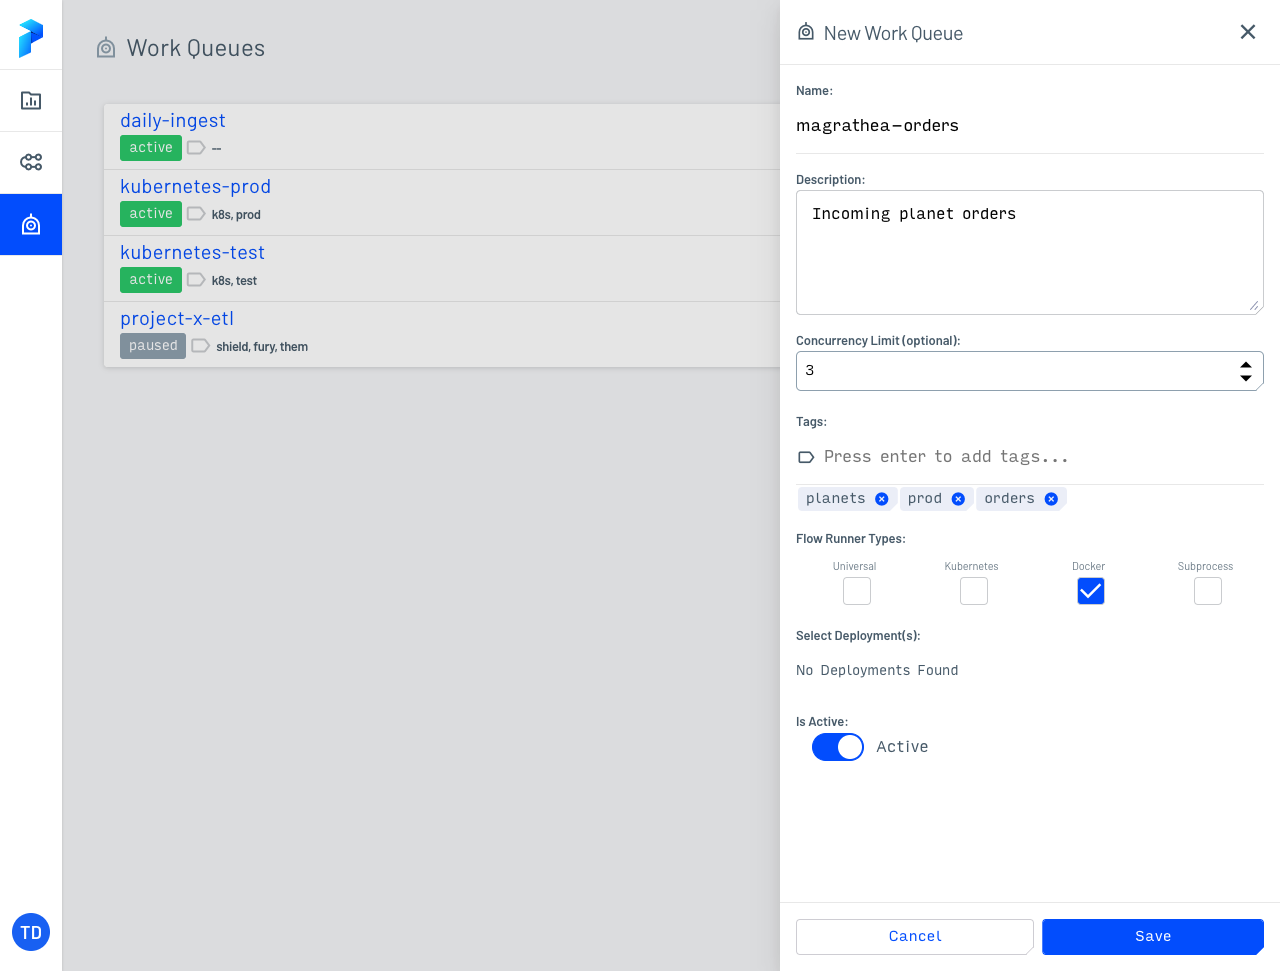
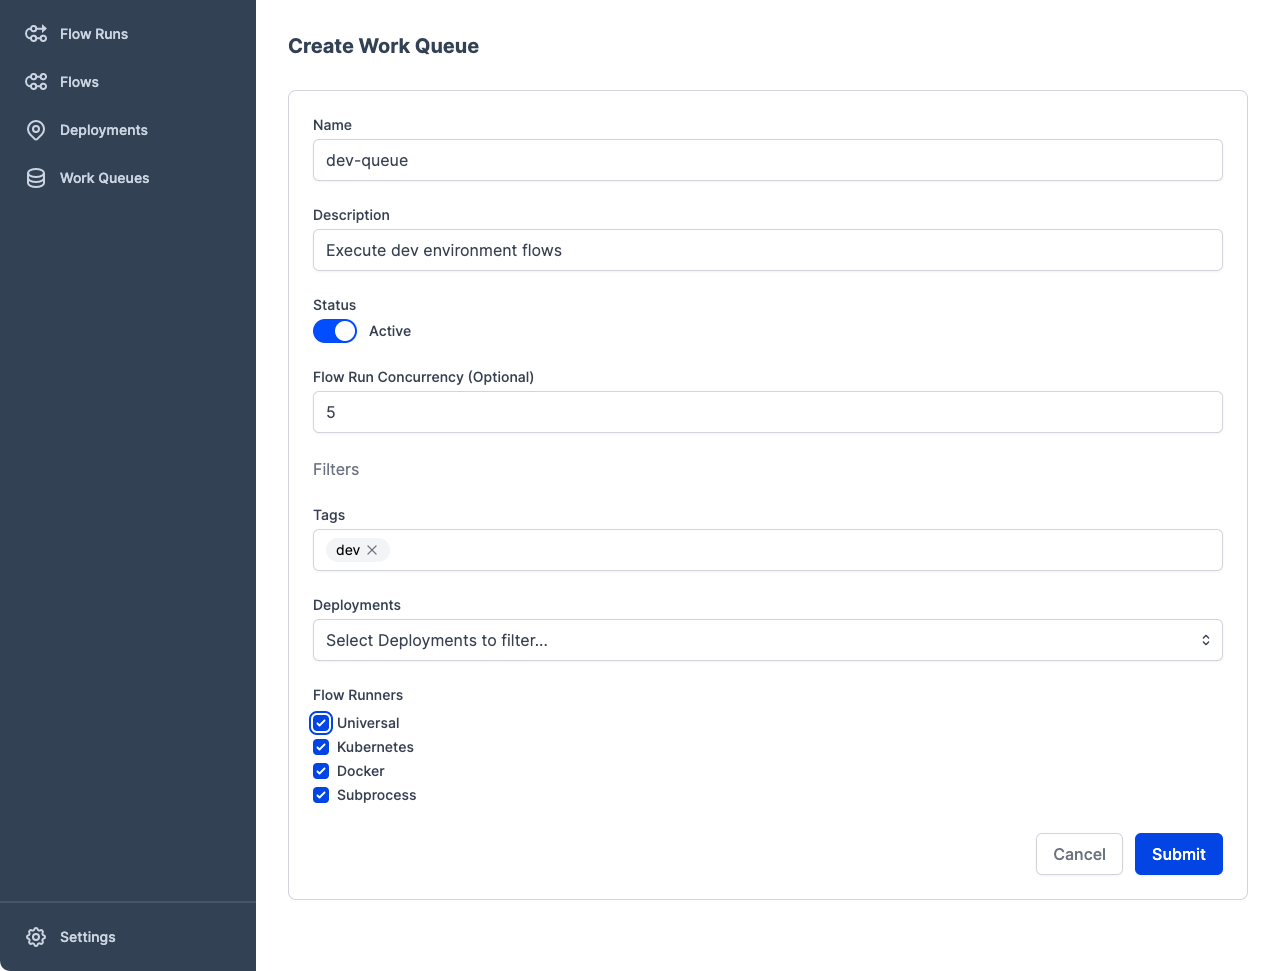
Revise work queues

diff --git a/docs/ui/work-queues.md b/docs/ui/work-queues.md
@@ -25,25 +25,16 @@ To manage work queues in the UI, click the **Work Queues** icon. This displays a
 
 ![The UI displays a list of configured work queues](/img/ui/work-queue-list.png)
 
-For each work queue you'll see its:
+You can also pause a work queue from this page by using the slider.
 
-- Name
-- Status (for example, "active")
-- Tags (the work queue serves flow runs with these tags)
-- Concurrency limit (the maximum number of flow runs that can be running concurrently on this queue)
-
-Click **Create Work Queue** to create a new work queue. You'll be able to specify the details for work served by this queue.
+Select the **+** button to create a new work queue. You'll be able to specify the details for work served by this queue.
 
 ![Creating a new work queue in the Orion UI](/img/ui/work-queue-create.png)
 
-Click on the name of any work queue to see details about it. This panel shows you the:
-
-- Status
-- CLI command to [run an agent](/concepts/work-queues/#agent-overview) that polls this work queue
-- Configuration details
-
-You can also pause a work queue from this panel.
+Click on the name of any work queue to see details about it. 
 
 ![Viewing details of a work queue including agent configuration string](/img/ui/work-queue-details.png)
 
-Click **Edit** to make changes to the work queue configuration, including deleting the work queue.
+You can also pause a work queue from this page by using the slider.
+
+The commands button enables you to edit or delete the work queue.
